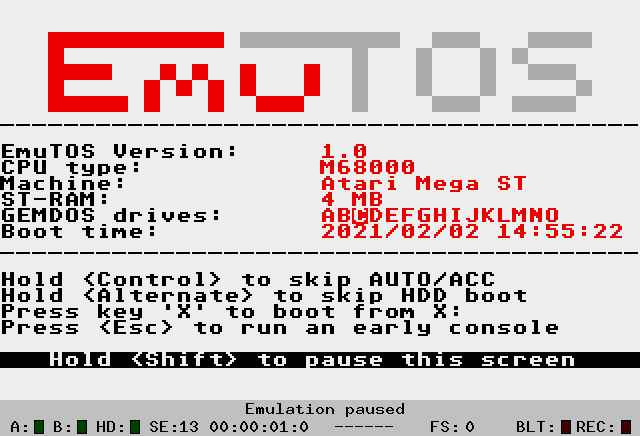
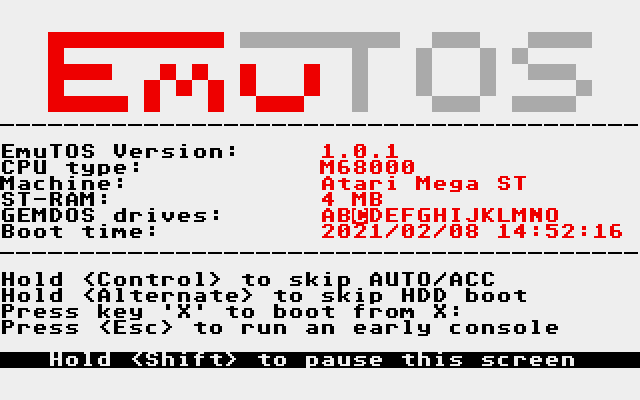
Two new screen shots, without the Hatari status bar. Removed the explanation of the status bar in the screen shot.
modified:   docs/images/boot.screen.png
	modified:   docs/images/minimal.atari.desktop.mono.png
	modified:   docs/index.md

diff --git a/usermanual/docs/index.md b/usermanual/docs/index.md
@@ -105,8 +105,6 @@ There are a number of features to note about the boot screen.
 
     - Press the escape key to bypass the desktop and go directly to [EmuCON](#emucon). This might also be useful for recovering from a boot sequence gone wrong.
 
-The rest of that screen shot is from the Hatari emulator, so it is not documented here.
-
 ## The Desktop
 
 ![Screenshot](images/minimal.atari.desktop.mono.png)
